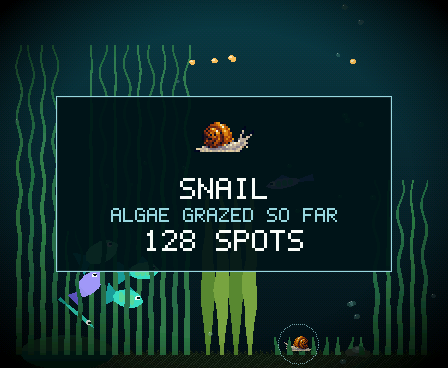
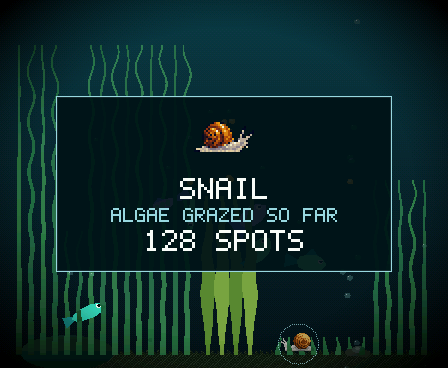
The snail drawn procedurally, like the castle - and it crawls
Geometry and a per-pixel tone rule in place of the two sprites: a position
hash for the foot's mottle, light from the upper left, a per-row water
tint, no outline. Pedal waves run along the foot, the eye stalks sway, the
shell heaves with the crawl. Screenshots refreshed; README's snail paragraph.

diff --git a/common/render.c b/common/render.c
@@ -272,51 +272,9 @@ static void draw_algae(ctx_t *c, const tank_t *t) {
         }
 }
 
-/* a sprite from the icon bank drawn IN the scene: dimmed with the night
- * like everything else (blit_icon is for UI, undimmed), optionally mirrored
- * (a creature facing left). Centred on (cx, cy). */
-static void blit_sprite(ctx_t *c, float cx, float cy, const icon_t *ic, bool flip) {
-    int x0 = (int)(cx - ic->w / 2.0f), y0 = (int)(cy - ic->h / 2.0f);
-    for (int j = 0; j < ic->h; j++)
-        for (int i = 0; i < ic->w; i++) {
-            int a = ic->a[j * ic->w + i];
-            if (!a) continue;
-            uint16_t v = ic->rgb[j * ic->w + i];
-            uint32_t rgb = (uint32_t)((v >> 11) << 3) << 16 | (uint32_t)(((v >> 5) & 63) << 2) << 8 | (uint32_t)((v & 31) << 3);
-            px_blend(c, x0 + (flip ? ic->w - 1 - i : i), y0 + j, rgb, a);
-        }
-}
-/* the same, turned to `angle` (radians, clockwise on screen) about its
- * centre: every pixel of the box around it samples the nearest source
- * pixel. The glass snail's head leads the way it crawls (Strato). */
-static void blit_sprite_rot(ctx_t *c, float cx, float cy, const icon_t *ic, float angle) {
-    float ca = cosf(angle), sa = sinf(angle);
-    int r = (int)((ic->w > ic->h ? ic->w : ic->h) * 0.72f) + 1;
-    for (int dy = -r; dy <= r; dy++)
-        for (int dx = -r; dx <= r; dx++) {
-            float sx = ca * dx + sa * dy + ic->w * 0.5f, sy = -sa * dx + ca * dy + ic->h * 0.5f;   /* inverse rotation */
-            int i = (int)sx, j = (int)sy;
-            if (sx < 0 || sy < 0 || i >= ic->w || j >= ic->h) continue;
-            int a = ic->a[j * ic->w + i];
-            if (!a) continue;
-            uint16_t v = ic->rgb[j * ic->w + i];
-            uint32_t rgb = (uint32_t)((v >> 11) << 3) << 16 | (uint32_t)(((v >> 5) & 63) << 2) << 8 | (uint32_t)((v & 31) << 3);
-            px_blend(c, (int)(cx + dx), (int)(cy + dy), rgb, a);
-        }
-}
-/* the snail (the shop, 2026-09-15; Strato's two sprites): UPRIGHT on the
- * floor - a side view, mirrored to face the way it walks, drawn in the
- * scene with the fish (vignetted, behind the front fronds) - or flat ON
- * THE GLASS, its underside to the viewer, drawn after the algae like the
- * film itself (it is on the pane). A slow bob while it crawls. */
-static void draw_snail(ctx_t *c, const tank_t *t, bool upright_pass) {
-    if (!(t->sd_unlocks & SD_ITEM_SNAIL) || t->snail_x < 0) return;
-    bool upright = tank_snail_upright(t);
-    if (upright != upright_pass) return;
-    if (upright) blit_sprite(c, t->snail_x, t->snail_y, &icon_snail_upright, cosf(t->snail_heading) < 0);
-    else         blit_sprite_rot(c, t->snail_x, t->snail_y + fast_sin(t->clock * 2.2f) * 0.6f, &icon_snail_glass,
-                                 t->snail_heading - 1.5708f);   /* the art faces down: turn it to the heading */
-}
+/* the snail: drawn procedurally (2026-09-16), defined after the castle
+ * block below - it shares the castle's position hash */
+static void draw_snail(ctx_t *c, const tank_t *t, bool upright_pass);
 
 /* optional per-stage frame profiling (render.h) */
 int64_t (*render_clock_us)(void) = NULL;
@@ -758,6 +716,166 @@ static void draw_castle_front_rect(ctx_t *c, int cx, int x0, int y0, int x1, int
     ctx_t cc = { c->fb + (y0 - c->oy) * c->stride + (x0 - c->ox), c->stride, c->dim, x0, y0, x1 - x0 + 1, y1 - y0 + 1 };
     draw_castle(&cc, cx, 1, true);
 }
+
+/* ---- the snail, procedural (2026-09-16; Strato: "explore doing the same
+ * for the snail so the aesthetic matches") ----
+ * Drawn the castle's way in place of the two sprites: a little geometry with
+ * a per-pixel tone rule, the castle's position hash for the foot's mottle,
+ * golden light from the upper left (the lower right of the shell falls into
+ * the dark tones, the rim shades, a wet gleam sits high on the left), mixed
+ * with the water of its row like the fronds - a touch stronger on the pane
+ * than on the floor, so the glass snail reads closer - and no outline. And
+ * it moves (Strato: "the fish animations are so nice, maybe you can add a
+ * subtle animation"): PEDAL WAVES run along the foot, head-ward on the glass
+ * and back along the belly upright, the eye stalks sway against each other,
+ * and the shell heaves a pixel with the wave.
+ * UPRIGHT faces +x, the origin at the sole under the shell (snail_y +
+ * SNAIL_SOLE_DY), mirrored to the heading; ~34 x 17 px. ON THE GLASS the
+ * head points +y from the foot's centre, turned to the heading like the
+ * sprite was; ~22 x 25 px. The tone rule runs over ~750 px per pose. */
+enum { SN_S0, SN_S1, SN_S2, SN_S3, SN_S4, SN_F0, SN_F1, SN_F2, SN_F3, SN_TIP, SN_EYE, SN_NONE };
+static const uint32_t SNAIL_RGB[SN_NONE] = {
+    0xf8c868, 0xe6953c, 0xc4641e, 0x8c3d16, 0x4a2010,      /* the shell: lit .. the groove */
+    0xf2ebe4, 0xd8cec6, 0xb3a7a6, 0x847a80,                /* the foot: lit .. its edge */
+    0x1a1c34, 0x0a0c18 };                                  /* stalk tips; the eye and the mouth */
+#define SNAIL_SOLE_DY   6.0f                               /* the sole below snail_y (the sprite's centre) */
+#define SNAIL_TINT_FLOOR 0.84f
+#define SNAIL_TINT_GLASS 0.90f
+static inline int sn_clamp(int v, int lo, int hi) { return v < lo ? lo : v > hi ? hi : v; }
+/* within w of the segment (x0,y0)-(x1,y1); *u = 0..1 along it */
+static inline bool sn_seg(float lx, float ly, float x0, float y0, float x1, float y1, float w, float *u) {
+    float vx = x1 - x0, vy = y1 - y0, l2 = vx * vx + vy * vy;
+    float t = ((lx - x0) * vx + (ly - y0) * vy) / l2;
+    t = t < 0 ? 0 : t > 1 ? 1 : t;
+    float ex = lx - (x0 + t * vx), ey = ly - (y0 + t * vy);
+    *u = t;
+    return ex * ex + ey * ey < w * w;
+}
+/* the shell's tone from its lighting terms: band = the whorl's lit / mid /
+ * groove, lit = -1..1 (upper left .. lower right), rim = on the edge */
+static inline int sn_shell_tone(int band, float lit, bool rim) {
+    int tone = band;
+    if (lit > 0.35f) tone--; else if (lit < -0.15f) tone++;
+    if (lit < -0.55f) tone++;
+    if (rim) tone = lit < 0.25f ? (tone > 3 ? tone : 3) : (tone < 1 ? tone : 1);
+    return tone;
+}
+/* UPRIGHT: the tone at local (lx, ly), or SN_NONE. top = the foot's ridge at
+ * this column (computed once per column by the caller) */
+static int snail_upright_tone(int lx, int ly, float top, float clock) {
+    float heave = 0.6f * fast_sin(clock * 2.4f);
+    float sw1 = fast_sin(clock * 1.7f), sw2 = fast_sin(clock * 1.7f + 2.2f);
+    float u;
+    /* the eye stalks, swaying against each other */
+    if (sn_seg(lx, ly, 12.5f, -7.5f, 17.5f + sw1, -13.5f, 0.7f, &u)) return u > 0.78f ? SN_TIP : SN_F1;
+    if (sn_seg(lx, ly, 13.5f, -6.5f, 18.5f + sw2, -9.5f, 0.7f, &u)) return u > 0.78f ? SN_TIP : SN_F1;
+    /* the shell: a disc, the whorl a spiral about an apex left of centre */
+    const float cx = -3.5f, cy = -9.5f + heave, R = 8.6f;
+    float dx = lx - cx, dy = ly - cy;
+    float r = sqrtf(dx * dx + dy * dy * 1.0816f);
+    if (r <= R) {
+        float ax = lx - (cx - 1.5f), ay = ly - (cy + 0.5f);
+        float ar = sqrtf(ax * ax + ay * ay), th = atan2f(ay, ax);
+        const float pitch = 2.25f;                                 /* ~4 turns: Strato asked for one more groove */
+        float w = fmodf(ar - th / TAU * pitch, pitch); if (w < 0) w += pitch; w /= pitch;
+        int tone = sn_shell_tone(w < 0.5f ? 1 : w < 0.74f ? 2 : 3, (-dx * 0.55f - dy * 0.83f) / R, r > R - 1.3f);
+        if (ar < 2.2f) tone = 3;                                   /* the apex whorl is tight and dark */
+        { float gx = (dx + 3.4f) * 0.8f, gy = dy + 4.6f; if (gx * gx + gy * gy < 4.0f) tone = 0; }   /* a wet gleam */
+        return SN_S0 + sn_clamp(tone, 0, 4);
+    }
+    /* the foot: a low lens under the shell, the head rising at the front */
+    if (lx >= -15 && lx <= 13 && ly >= top && ly <= 0) {
+        int tone = 1;
+        if (ly < top + 1.4f) tone = 0;                             /* the lit ridge */
+        if (ly > -0.9f) tone = 2;                                  /* the belly line */
+        if (r < R + 1.8f && dy > 0 && tone < 3) tone++;            /* the shell's shadow */
+        if (ly > -2.2f && tone <= 1 && fast_sin(lx * 1.1f + clock * 3.0f + TAU) > 0.7f) tone = 0;   /* a pedal wave runs back */
+        if ((chash(lx, ly) & 7) == 0) tone = sn_clamp(tone + 1, 0, 3);
+        return SN_F0 + tone;
+    }
+    /* the head */
+    { float hx = (lx - 11.5f) * 1.05f, hy = ly + 5.2f;
+      if (hx * hx + hy * hy <= 9.0f) {
+          float ex = lx - 12.6f, ey = ly + 5.6f;
+          if (ex * ex + ey * ey < 0.64f) return SN_EYE;
+          return (-(lx - 11.5f) * 0.5f - hy) > 0.9f ? SN_F0 : SN_F1;
+      } }
+    return SN_NONE;
+}
+/* ON THE GLASS: local (lx, ly) is turned to the heading; (sx, sy) is the
+ * screen offset, which the light and the shadow side follow (the light
+ * stays upper-left however it crawls) */
+static int snail_glass_tone(float lx, float ly, float sx, float sy, float clock) {
+    float u;
+    for (int sgn = -1; sgn <= 1; sgn += 2)                        /* the stalks: stubs by the head */
+        if (sn_seg(lx, ly, sgn * 2.2f, 10.0f, sgn * 3.6f, 11.6f + 0.4f * fast_sin(clock * 2 + sgn + TAU), 0.6f, &u))
+            return u > 0.7f ? SN_TIP : SN_F2;
+    float lit = (-sx * 0.55f - sy * 0.83f) / 11.0f;
+    /* the foot: an egg, broad under the shell, narrowing to the head */
+    float ey = ly / 11.0f;
+    if (ey >= -1 && ey <= 1) {
+        float rx = 6.6f * sqrtf(1 - ey * ey) * (1 - 0.18f * ey);
+        float alx = lx < 0 ? -lx : lx;
+        if (rx > 0.3f && alx <= rx) {
+            int tone = 1;
+            if (fast_sin(ly * 0.75f - clock * 2.6f + 64 * TAU) > 0.6f) tone = 0;   /* pedal waves crawl head-ward */
+            float edge = alx / rx;
+            if (edge > 0.8f) tone = 2;                             /* the foot's edge */
+            else if (edge > 0.62f && lit < 0 && tone < 1) tone = 1; /* the shadow side falls off */
+            if (alx < 1.2f && ly > 2 && tone < 2) tone = 2;        /* the pedal groove */
+            if (ly < -5 && edge < 0.5f && tone > 1) tone = 1;
+            if ((chash((int)floorf(lx), (int)floorf(ly)) & 7) == 0) tone = sn_clamp(tone + 1, 0, 3);
+            if (alx < 1.5f && ly >= 7.4f && ly <= 8.8f) return SN_EYE;   /* the mouth */
+            return SN_F0 + tone;
+        }
+    }
+    /* the shell behind: a crescent of whorl lobes round the top and sides */
+    float qx = lx / 11.0f, qy = (ly + 2.5f) / 10.6f;
+    float sr = sqrtf(qx * qx + qy * qy);
+    if (sr <= 1 && ly < 6.5f) {
+        float lobe = fast_sin(atan2f(ly + 2.5f, lx) * 5.0f - 0.3f + 8 * TAU);
+        int tone = sn_shell_tone(lobe > 0.15f ? 1 : 2, lit, sr > 0.88f);
+        if (sr < 0.78f) tone++;                                    /* shadow where the foot meets it */
+        { float gx = sx + 5.0f, gy = sy + 7.8f; if (gx * gx + gy * gy < 2.9f) tone = 0; }   /* gleam */
+        return SN_S0 + sn_clamp(tone, 0, 4);
+    }
+    return SN_NONE;
+}
+static inline void snail_put(ctx_t *c, int x, int y, int tone, float tint) {
+    if (tone == SN_NONE || !CTX_IN(c, x, y)) return;
+    uint32_t w = water_rgb(y < 0 ? 0 : y >= TANK_H ? TANK_H - 1 : y);
+    px_blend(c, x, y, mix(w, SNAIL_RGB[tone], tint), 255);
+}
+/* UPRIGHT on the floor - a side view, mirrored to face the way it walks,
+ * drawn in the scene with the fish (vignetted, behind the front fronds) -
+ * or flat ON THE GLASS, its underside to the viewer, drawn after the algae
+ * like the film itself (it is on the pane). */
+static void draw_snail(ctx_t *c, const tank_t *t, bool upright_pass) {
+    if (!(t->sd_unlocks & SD_ITEM_SNAIL) || t->snail_x < 0) return;
+    bool upright = tank_snail_upright(t);
+    if (upright != upright_pass) return;
+    int ox = (int)t->snail_x, oy = (int)(t->snail_y + SNAIL_SOLE_DY);
+    if (upright) {
+        bool flip = cosf(t->snail_heading) < 0;
+        for (int lx = -16; lx <= 20; lx++) {
+            float xf = (lx + 15) / 28.5f;
+            float top = -(2.4f + 3.2f * powf(sinf(xf < 0 ? 0 : xf > 1 ? 1 : xf * 3.14159f), 0.6f));
+            if (lx > 8) { float h = -(4.8f + (lx - 8) * 0.55f); if (h < top) top = h; }
+            int x = flip ? ox - lx : ox + lx;
+            for (int ly = -18; ly <= 0; ly++)
+                snail_put(c, x, oy + ly, snail_upright_tone(lx, ly, top, t->clock), SNAIL_TINT_FLOOR);
+        }
+    } else {
+        float a = t->snail_heading - 1.5708f;                      /* the head points +y locally */
+        float ca = cosf(a), sa = sinf(a);
+        int cx = (int)t->snail_x, cy = (int)t->snail_y;
+        for (int dy = -17; dy <= 17; dy++)
+            for (int dx = -17; dx <= 17; dx++) {
+                float lx = ca * dx + sa * dy, ly = -sa * dx + ca * dy;   /* inverse rotation */
+                snail_put(c, cx + dx, cy + dy, snail_glass_tone(lx, ly, (float)dx, (float)dy, t->clock), SNAIL_TINT_GLASS);
+            }
+    }
+}
 /* where the castle stands this frame: its centre x (-1 = not bought), its
  * depth, and whether the keeper is dragging it on the placement page (then
  * it is drawn live over a scene baked WITHOUT it, instead of a rebake per
@@ -937,7 +1055,7 @@ void render_tank(const tank_t *t, uint16_t *fb, int stride) {
     /* the snail on the floor (upright): in the scene, under the front fronds */
     if (tank_snail_upright(t)) {
         draw_snail(&c, t, true);
-        DYN_RECT((int)t->snail_x - 17, (int)t->snail_y - 17, (int)t->snail_x + 17, (int)t->snail_y + 17);
+        DYN_RECT((int)t->snail_x - 21, (int)t->snail_y - 13, (int)t->snail_x + 21, (int)t->snail_y + 7);
     }
     /* the castle IN FRONT: its front row back over the fish (and the snail,
        the food, the bubbles), only where they were drawn - a fish in the arch

diff --git a/README.md b/README.md
@@ -196,7 +196,11 @@ leaves on the open floor, trimmed and grown and counted as cover like the
 grass. The **snail** (80) grazes the glass clean cell by cell, crawling
 flat across the pane with its head leading, and walks the floor upright
 when there is nothing to eat; it keeps working while the tank sleeps, so
-the glass is thinner in the morning. Tap the snail for its card: a ring
+the glass is thinner in the morning. It is drawn the way the fish, the
+grass and the castle are, from a little geometry rather than a sprite, lit
+from the upper left and tinted by the water of its row, and it moves like
+a snail: waves run along its foot, its eye stalks sway, its shell rocks
+with the crawl. Tap the snail for its card: a ring
 around it and a tally of the spots of algae it has grazed clean so far,
 night shifts included. The model sees neither: they reach
 the fish the way your own chores do, through cover and the film. Dollars
